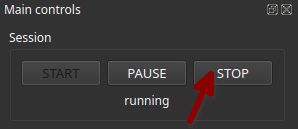
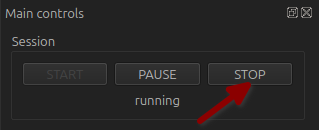
update screenshots for v1.0 quickstart EN & FR pages

diff --git a/website/content/fr/docs/v1.0/quickstart/_index.md b/website/content/fr/docs/v1.0/quickstart/_index.md
@@ -2,7 +2,7 @@
 title: "Premier démarrage"
 description: "Tout savoir pour bien débuter avec ALS."
 author: "ALS Team"
-lastmod: 2026-06-06T19:08:44Z
+lastmod: 2026-06-08T23:29:53Z
 keywords: [ "Premier démarrage d'ALS" ]
 draft: false
 type: "docs"
@@ -66,11 +66,15 @@ dossiers situés sur un disque rapide
 
 # Votre toute première session {#your-very-first-session}
 
+Pour préserver vos yeux jusqu'à la fin de ce guide, nous basculons ALS en **thème sombre**, en utilisant soit :
+- le menu `Vue > Thème sombre`
+- le raccourci clavier {{< als-ks >}}T{{< /als-ks >}}
+
 {{< center >}}
 {{< figure src="ready.png"
 caption="ALS prêt à démarrer sa toute première session"
-width="1388px"
-height="761px"
+width="1920px"
+height="1080px"
 alt="Fenêtre principale d'ALS montrant une interface logicielle pour empiler des images astronomiques en temps réel. L'interface comprend des sections pour les contrôles principaux (démarrer, pause, arrêter), les paramètres d'empilement (aligner, correspondances minimales), le serveur d'images (démarrer, arrêter), la sauvegarde d'images (sauvegarder l'image actuelle, sauvegarder chaque image), les modules (taille de la file d'attente, statut), le traitement (histogramme, étirement automatique, niveaux, balance RGB) et le journal de session." >}}
 {{< /center >}}
 
@@ -79,8 +83,8 @@ alt="Fenêtre principale d'ALS montrant une interface logicielle pour empiler de
 {{< center >}}
 {{< figure src="start.png"
 caption="Le bouton de démarrage de session"
-width="300px"
-height="129px"
+width="320px"
+height="130px"
 alt="Section des contrôles principaux d'ALS avec la sous-section Session, montrant les boutons START, PAUSE et STOP. Le bouton START est surligné avec une flèche rouge pointant vers lui. En dessous, des indicateurs pour la taille de la stack (0) et l'exposition de la pile (n/a) sont affichés. Le statut indique 'stoppée'." >}}
 {{< /center >}}
 
@@ -93,16 +97,16 @@ ALS confirme le bon démarrage de la session :
 {{< center >}}
 {{< figure src="started.png"
 caption="Le statut et les boutons de contrôle de la session sont mis à jour"
-width="301px"
-height="128px"
+width="319px"
+height="130px"
 alt="Section des contrôles principaux d'ALS avec la sous-section Session, montrant les boutons START, PAUSE et STOP. En dessous de ces boutons, des indicateurs pour la taille de la stack (0) et l'exposition de la stack (n/a) sont affichés. Le statut indique 'démarrée' avec une flèche rouge pointant vers lui." >}}
 {{< /center >}}
 
 {{< center >}}
 {{< figure src="status.png"
 caption="Le **journal de session** affiche les derniers événements et la **barre de statut** est mise à jour"
-width="978px"
-height="166px"
+width="900px"
+height="176px"
 alt="Journal de session affichant des messages d'information avec horodatages. Les entrées incluent 'Démarrage de nouvelle session...' 'Scanneur d'entrée démarré,' et 'Session démarrée en mode moyenne avec alignement True.' Des boutons étiquetés Acquitter, problèmes seuls, suivre. La barre de statut indique 'Session démarrée'." >}}
 {{< /center >}}
 
@@ -119,8 +123,8 @@ alt="Journal de session affichant des messages d'information avec horodatages. L
 {{< center >}}
 {{< figure src="stacked_01.png"
 caption="ALS après traitement de la 1<sup>ère</sup> image"
-width="1388px"
-height="761px"
+width="1920px"
+height="1080px"
 alt="Fenêtre principale d'ALS après le traitement de la première brute, affichant une image initiale et légèrement bruitée de la nébuleuse Messier 27 avec des étoiles éparpillées. Le journal de session montre des messages de traitement réussi. Le panneau de traitement sur la droite offre des ajustements de l'histogramme et des niveaux, l'équilibre RGB et les réglages d'étirement automatique." >}}
 {{< /center >}}
 
@@ -136,8 +140,8 @@ les brutes déjà traitées.
 {{< center >}}
 {{< figure src="stacked_15.png"
 caption="ALS après traitement de la 15<sup>ème</sup> image. Le contraste et le bruit s'améliorent"
-width="1388px"
-height="761px"
+width="1920px"
+height="1080px"
 alt="Fenêtre principale d'ALS après le traitement de la 15e brute, affichant une image moins bruitée et plus détaillée de la nébuleuse Messier 27 avec des étoiles éparpillées. Le journal de session montre des messages de traitement réussi. Le panneau de traitement sur la droite offre des ajustements de l'histogramme et des niveaux, l'équilibre RGB et les réglages d'étirement automatique." >}}
 {{< /center >}}
 
@@ -165,8 +169,8 @@ interrompre la navigation.
 {{< center >}}
 {{< figure src="stacked_200.png"
 caption="ALS après traitement de la 200<sup>ème</sup> image. Une belle image, détaillée et lissée"
-width="1388px"
-height="761px"
+width="1920px"
+height="1080px"
 alt="Fenêtre principale d'Astro Live Stacker (ALS) après le traitement de la 200e brute, affichant une image lisse, détaillée et à fort contraste de la nébuleuse Messier 27 avec de nombreuses étoiles. Le journal de session en bas montre des messages de traitement réussi et le panneau de sauvegarde d'images à gauche indique que les images ont été sauvegardées avec succès. Le panneau de droite comprend des options de traitement telles que les ajustements d'histogramme, l'étirement automatique, les niveaux et l'équilibre RGB." >}}
 {{< /center >}}
 
@@ -183,8 +187,8 @@ Notre visite guidée express touche à sa fin, arrêtez la session en cours.
 {{< center >}}
 {{< figure src="stopping.png"
 caption="Le bouton d'arrêt de session"
-width="301px"
-height="128px"
+width="319px"
+height="130px"
 alt="Section des contrôles principaux dans l'interface du logiciel ALS, plus précisément la zone Session affichant les boutons START, PAUSE et STOP. Le bouton STOP est surligné avec une flèche rouge pointant vers lui. En dessous des boutons se trouvent la taille de la stack (200) et l'exposition de la stack (0:13:20). Le statut indique 'démarrée'." >}}
 {{< /center >}}
 
@@ -195,8 +199,8 @@ alt="Section des contrôles principaux dans l'interface du logiciel ALS, plus pr
 {{< center >}}
 {{< figure src="stop.png"
 caption="Fenêtre de confirmation d'arrêt de session"
-width="608px"
-height="151px"
+width="604px"
+height="153px"
 alt="Boîte de dialogue intitulée 'Arrêt de session,' demandant une confirmation pour arrêter la session en cours avec un message : 'Stopper la session courante remettra la stack et les traitements à zéro. Êtes-vous sûr de vouloir stopper la session courante ?' En dessous du message se trouvent une case à cocher intitulée 'Sauver image avant arrêt' et deux boutons intitulés 'Non' et 'Oui.' Le bouton 'Non' est surligné en rouge et le bouton 'Oui' est surligné en vert." >}}
 {{< /center >}}
 

diff --git a/website/content/en/docs/v1.0/quickstart/_index.md b/website/content/en/docs/v1.0/quickstart/_index.md
@@ -2,7 +2,7 @@
 title: "Quick Start"
 description: "Everything you need to know to get started with ALS."
 author: "ALS Team"
-lastmod: 2026-06-06T19:08:43Z
+lastmod: 2026-06-08T23:29:53Z
 keywords: [ "Quick start with ALS" ]
 draft: false
 type: "docs"
@@ -65,11 +65,15 @@ You can select or create any folder on your system, but we recommend using folde
 
 # Your Very First Session {#your-very-first-session}
 
+To save your sight until the end if this guide, we switch ALS to **dark mode**, using either :
+- the `View > Dark theme` menu
+- the {{< als-ks >}}T{{< /als-ks >}} keyboard sgortcut
+
 {{< center >}}
 {{< figure src="ready.png"
 caption="ALS ready to start its very first session"
-width="1388px"
-height="761px"
+width="1920px"
+height="1080px"
 alt="ALS main window showing a software interface for stacking astronomical images in real-time. The interface includes sections for main controls (start, pause, stop), stack settings (align, minimum matches), image server (start, stop), image saver (save current, save every frame), workers (queue size, status), processing (histogram, auto stretch, levels, RGB balance), and session log." >}}
 {{< /center >}}
 
@@ -78,8 +82,8 @@ alt="ALS main window showing a software interface for stacking astronomical imag
 {{< center >}}
 {{< figure src="start.png"
 caption="The session start button"
-width="297px"
-height="129px"
+width="319px"
+height="130px"
 alt="ALS main controls section with the Session subsection, showing the START, PAUSE, and STOP buttons. The START button is highlighted with a red arrow pointing to it. Below, indicators for Stack size (0) and Stack exposure (n/a) are displayed. The status reads 'stopped'." >}}
 {{< /center >}}
 
@@ -92,16 +96,16 @@ ALS confirms the successful session start:
 {{< center >}}
 {{< figure src="started.png"
 caption="The session control buttons and session status are updated"
-width="297px"
-height="129px"
+width="319px"
+height="130px"
 alt="ALS main controls section with the Session subsection, showing the START, PAUSE, and STOP buttons. Below these buttons, indicators for Stack size (0) and Stack exposure (n/a) are displayed. The status reads 'running' with a red arrow pointing to it." >}}
 {{< /center >}}
 
 {{< center >}}
 {{< figure src="status.png"
 caption="The **session log** displays the latest events and the **status bar** is updated"
-width="1076px"
-height="166px"
+width="959px"
+height="163px"
 alt="Session log showing informational messages with timestamps. The entries include 'Starting new session,' 'Input scanner started,' and 'Session running in mode mean with alignment True.' Buttons labeled Acknowledge, issues only, follow. Statusbar item reads : session running" >}}
 {{< /center >}}
 
@@ -117,8 +121,8 @@ As an example, we will illustrate the following sections with a session on Messi
 {{< center >}}
 {{< figure src="stacked_01.png"
 caption="ALS after processing the 1<sup>st</sup> sub"
-width="1388px"
-height="761px"
+width="1920px"
+height="1080px"
 alt="ALS main window after processing the first sub, displaying an initial, slightly noisy image of Messier 27 nebula with scattered stars. The session log shows successful processing messages. The processing panel on the right provides histogram and level adjustments, RGB balance, and auto stretch settings." >}}
 {{< /center >}}
 
@@ -134,8 +138,8 @@ subs.
 {{< center >}}
 {{< figure src="stacked_15.png"
 caption="ALS after processing the 15<sup>th</sup> image. Contrast and noise improve"
-width="1388px"
-height="761px"
+width="1920px"
+height="1080px"
 alt="ALS main window after processing the 15th sub, displaying a less noisy and more detailed image of Messier 27 nebula with scattered stars. The session log shows successful processing messages. The processing panel on the right provides histogram and level adjustments, RGB balance, and auto stretch settings." >}}
 {{< /center >}}
 
@@ -162,8 +166,8 @@ The image in the **central area** is instantly updated after each sub is process
 {{< center >}}
 {{< figure src="stacked_200.png"
 caption="ALS after processing the 200<sup>th</sup> image. A beautiful, detailed, and smoothed image"
-width="1388px"
-height="761px"
+width="1920px"
+height="1080px"
 alt="The Astro Live Stacker (ALS) main window after processing the 200th sub, displaying a smooth, detailed, and high-contrast image of the Messier 27 nebula with numerous stars. The session log at the bottom shows successful processing messages and the image saver panel on the left indicates that the images have been saved successfully. The right panel includes processing options such as histogram adjustments, auto stretch, levels, and RGB balance." >}}
 {{< /center >}}
 
@@ -180,8 +184,8 @@ Our express guided tour is coming to an end, stop the current session.
 {{< center >}}
 {{< figure src="stopping.png"
 caption="The session stop button"
-width="298px"
-height="129px"
+width="319px"
+height="130px"
 alt="Main controls section in ALS software interface, specifically the Session area showing START, PAUSE, and STOP buttons. The STOP button is highlighted with a red arrow pointing to it. Below the buttons are Stack size (200) and Stack exposure (0:13:20). The status shows 'running'." >}}
 {{< /center >}}
 
@@ -192,8 +196,8 @@ alt="Main controls section in ALS software interface, specifically the Session a
 {{< center >}}
 {{< figure src="stop.png"
 caption="Session stop confirmation window"
-width="612px"
-height="151px"
+width="604px"
+height="153px"
 alt="Dialog box titled 'Session stop,' asking for confirmation to stop the current session with a message: 'Stopping the current session will reset the stack and all image enhancements. Are you sure you want to stop the current session?' Below the message are a checkbox labeled 'Save result before stop' and two buttons labeled 'No' and 'Yes.' The 'No' button is highlighted in red, and the 'Yes' button is highlighted in green." >}}
 {{< /center >}}
 
